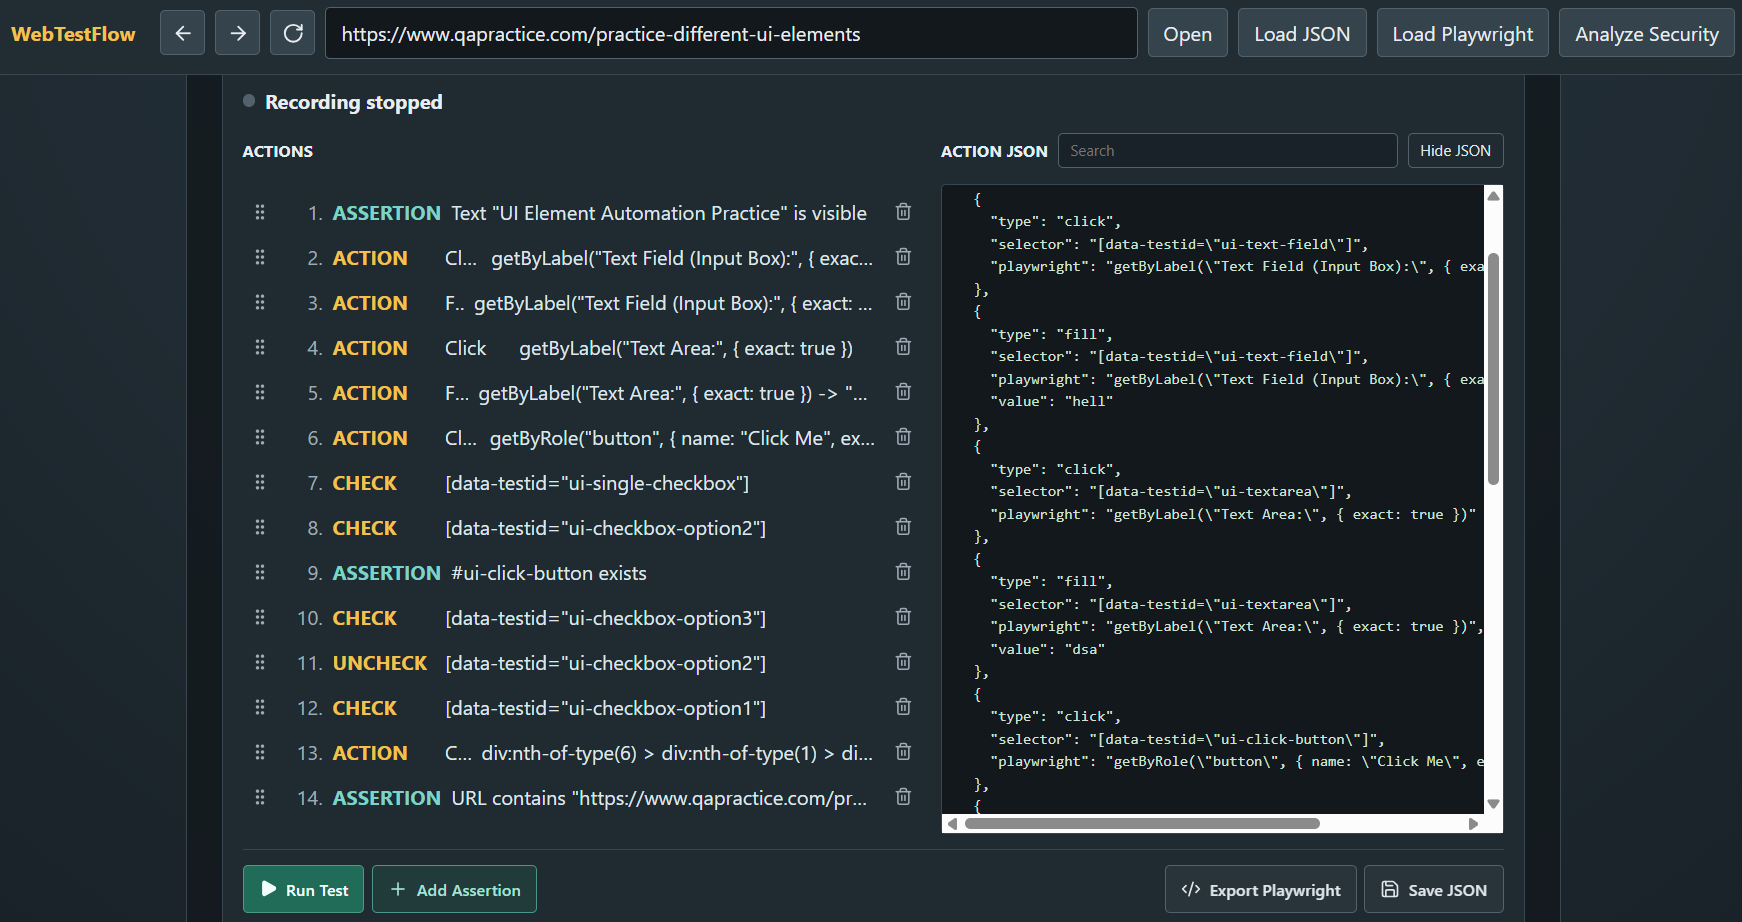
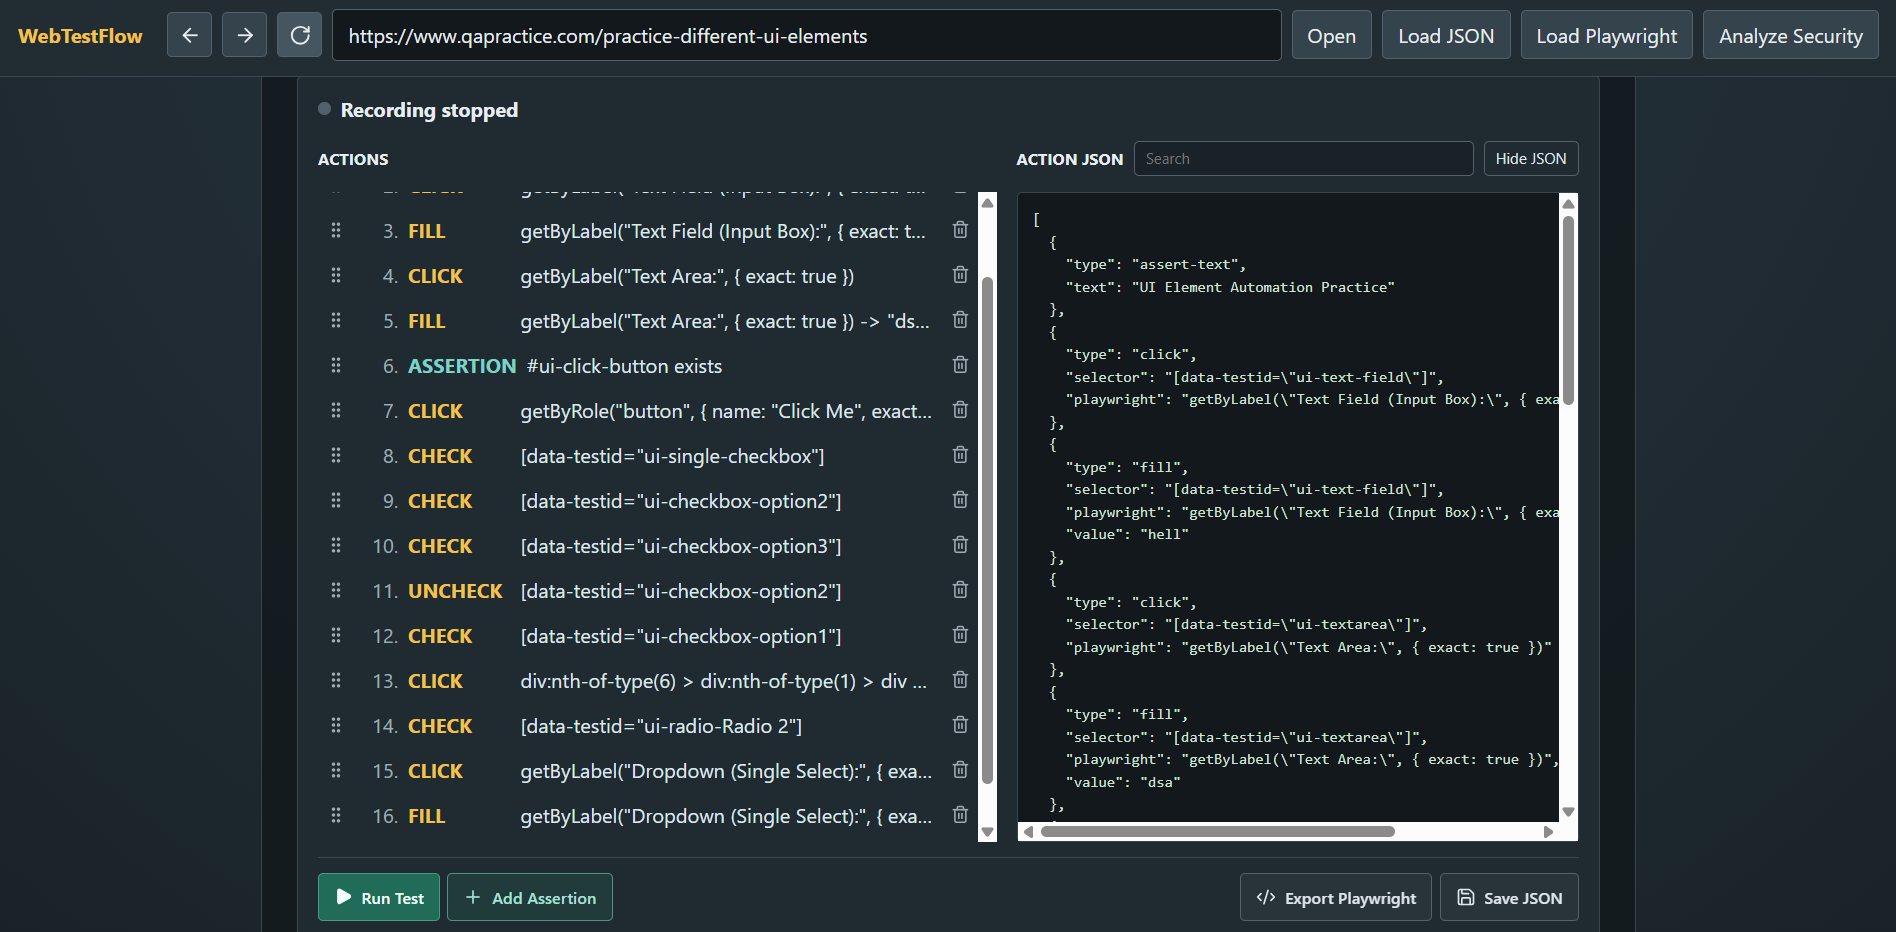
Update show action types in flow list labels

Changed region(s): [[0.155, 0.1518, 0.868, 1.0], [0.0, 0.0, 1.0, 0.1822], [0.124, 0.9111, 0.31, 1.0]]

diff --git a/src/renderer/App.tsx b/src/renderer/App.tsx
@@ -933,17 +933,27 @@ function App() {
                         </button>
                         <span className="action-number" aria-label={`Action ${index + 1}`}>{index + 1}.</span>
                         <span className={`action-type ${action.type.startsWith('assert-') ? 'assertion' : ''}`}>
-                          {action.type.startsWith('assert-') ? 'Assertion' : action.type === 'check' ? 'Check' : action.type === 'uncheck' ? 'Uncheck' : 'Action'}
+                          {action.type.startsWith('assert-')
+                            ? 'Assertion'
+                            : action.type === 'check'
+                              ? 'Check'
+                              : action.type === 'uncheck'
+                                ? 'Uncheck'
+                                : action.type === 'click'
+                                  ? 'Click'
+                                  : action.type === 'fill'
+                                    ? 'Fill'
+                                    : action.type === 'submit'
+                                      ? 'Submit'
+                                      : action.type === 'navigate'
+                                        ? 'Navigate'
+                                        : 'Action'}
                         </span>
                         {action.type === 'assert-url' ? <span className="action-detail">URL contains {JSON.stringify(action.value)}</span> : null}
                         {action.type === 'assert-text' ? <span className="action-detail">Text {JSON.stringify(action.text)} is visible</span> : null}
                         {action.type === 'assert-title' ? <span className="action-detail">Page title {JSON.stringify(action.title)}</span> : null}
                         {action.type === 'assert-state' ? <span className="action-detail">{action.playwright ?? action.selector} is {action.state}</span> : null}
                         {action.type === 'assert-element' ? <span className="action-detail">{action.playwright ?? action.selector} exists</span> : null}
-                        {action.type === 'navigate' ? <span className="action-detail">Navigate</span> : null}
-                        {action.type === 'click' ? <span className="action-detail">Click</span> : null}
-                        {action.type === 'fill' ? <span className="action-detail">Fill</span> : null}
-                        {action.type === 'submit' ? <span className="action-detail">Press Enter</span> : null}
                         {'url' in action && action.url ? <span className="action-detail" title={action.url}>{action.url}</span> : null}
                         {'selector' in action && action.selector && !action.type.startsWith('assert-') ? (
                           <span
